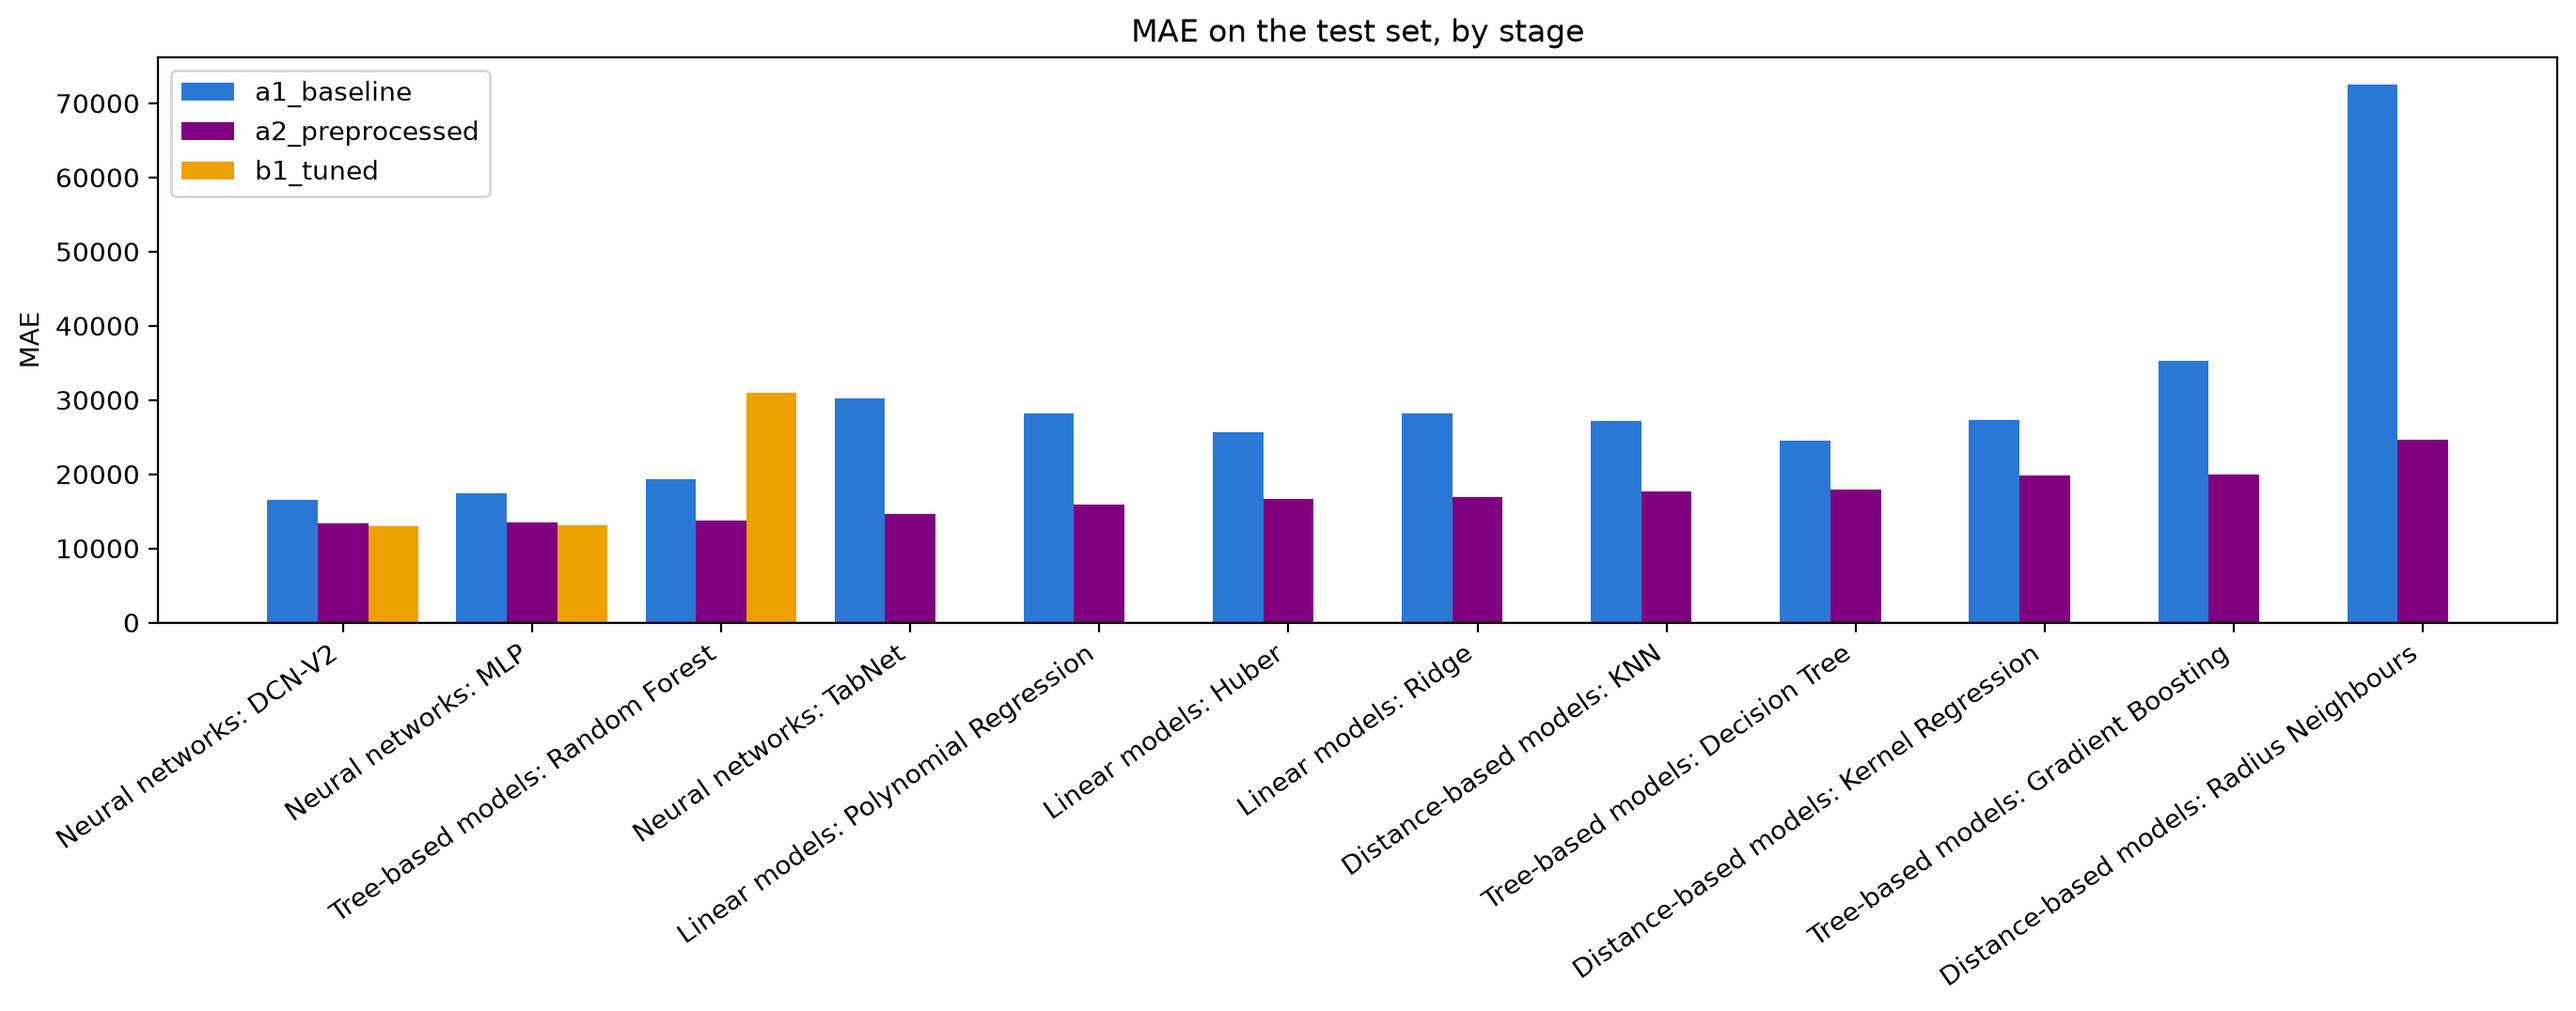
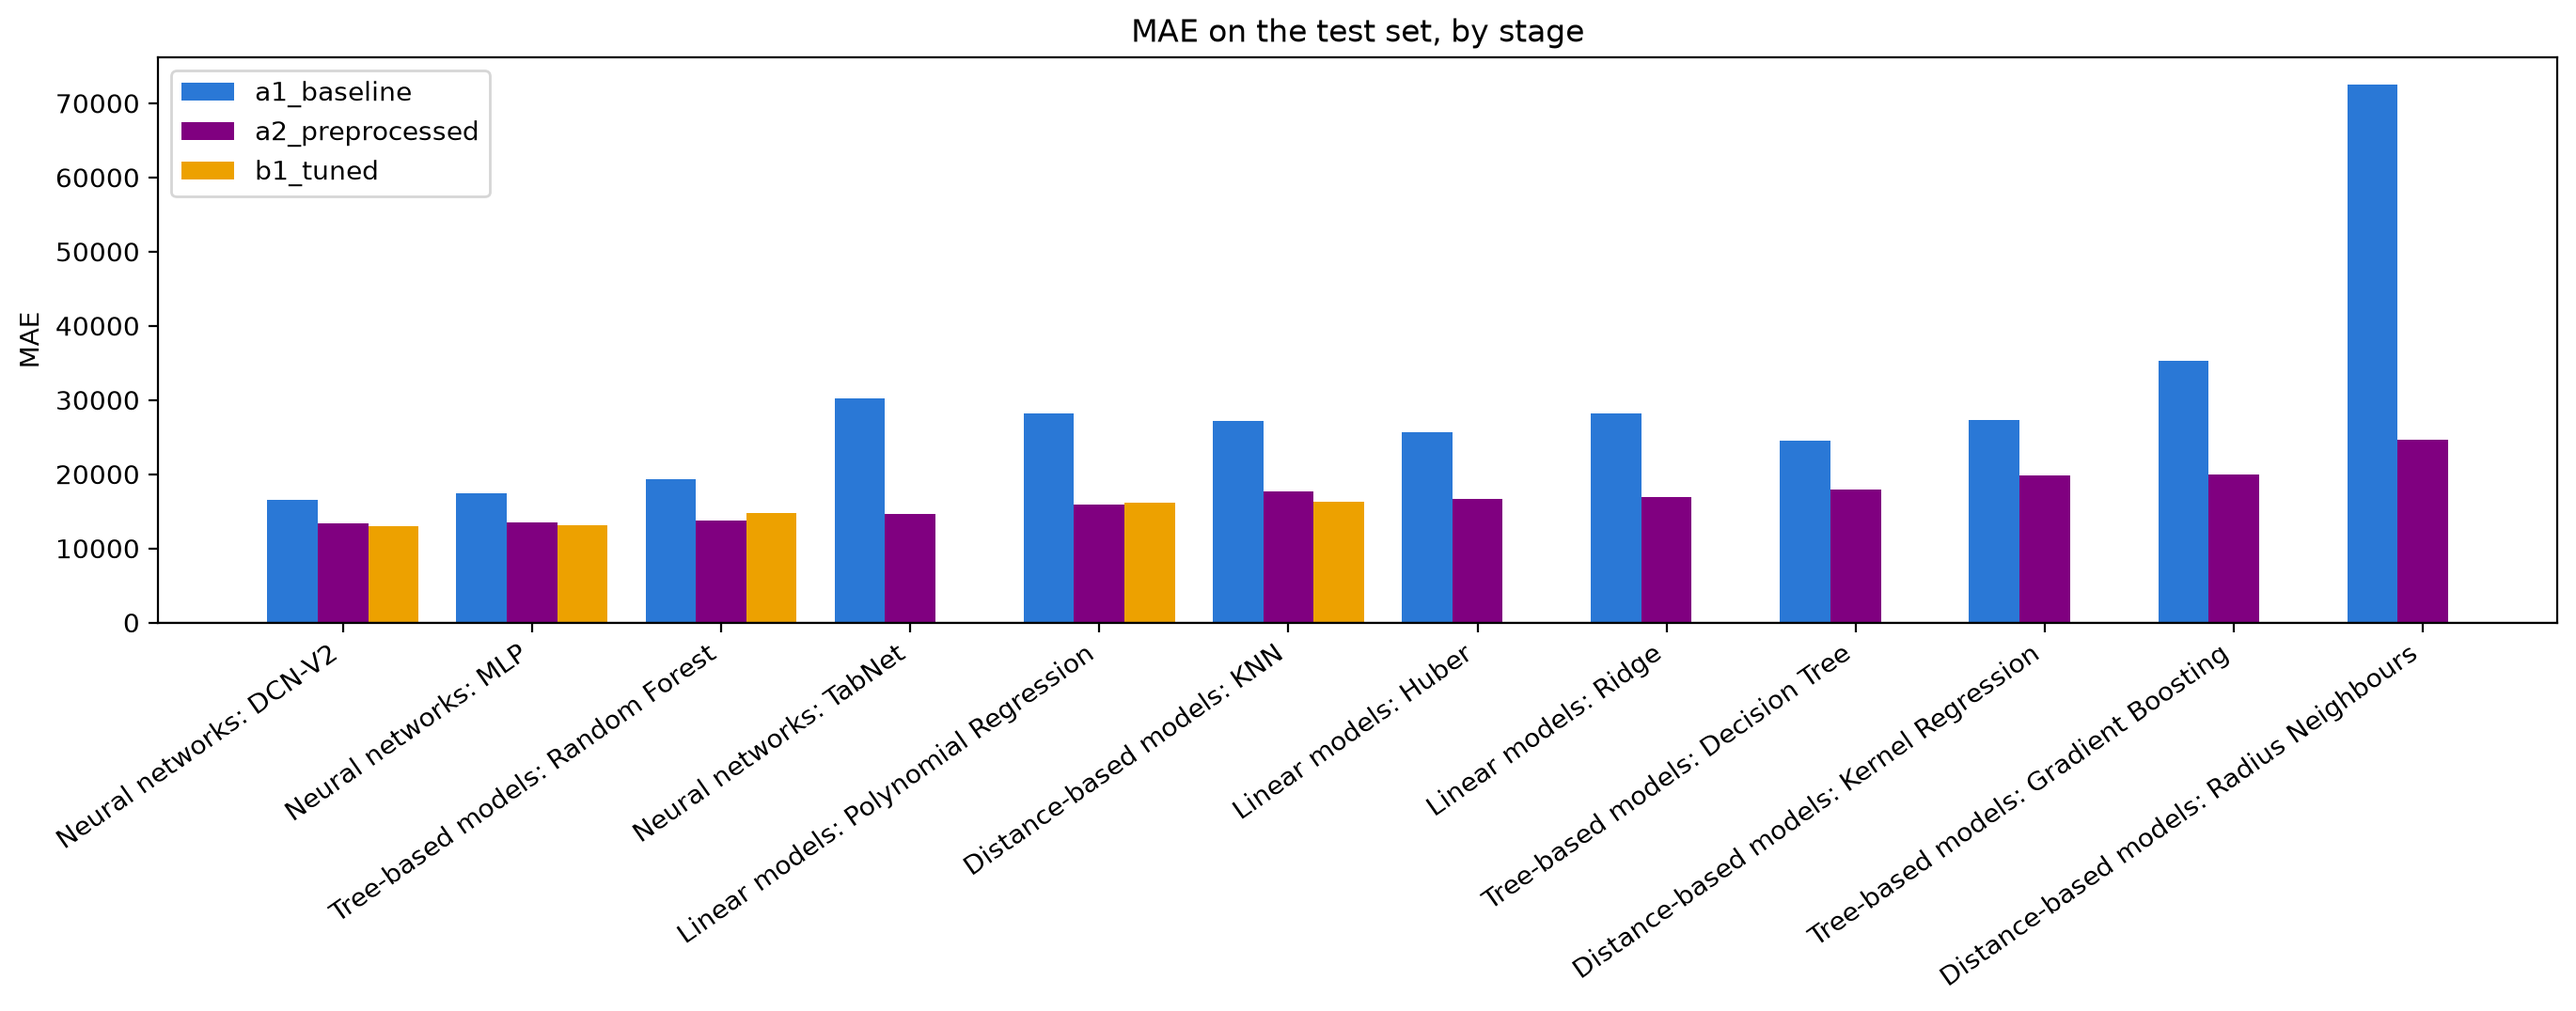
Ran comparison.py to include KNN model

diff --git a/src/analysis/b1_tuned_complexity_curve.py b/src/analysis/b1_tuned_complexity_curve.py
@@ -15,7 +15,7 @@ if str(ROOT_DIR) not in sys.path:
 from src.shared import complexity as cc
 from src.shared.core_utils import RANDOM_STATE
 from src.shared.stages import load_data
-from src.tuned_models import run_dcnv2, run_random_forest
+from src.tuned_models import run_dcnv2, run_knn, run_random_forest
 
 STAGE = "b1_tuned"
 
@@ -23,7 +23,6 @@ STAGE = "b1_tuned"
 # (or import them from their src/tuned_models/run_*.py), e.g. POLY_TUNED = {"degree": 2, "fit_intercept": True},
 # KNN_TUNED = {"n_neighbors": 10, "weights": "distance", "p": 1}. While a dict is empty that panel uses the default settings.
 POLY_TUNED = {}  # "degree" is swept; the other keys go to LinearRegression
-KNN_TUNED = {}   # "n_neighbors" is swept; the other keys go to KNeighborsRegressor
 
 
 def without(params, key):
@@ -38,6 +37,7 @@ def main():
     split = load_data(STAGE)
     n_numeric = cc.n_numeric_columns(STAGE)
     rf_params = run_random_forest.BEST_PARAMS[STAGE]
+    knn_params = run_knn.BEST_PARAMS[STAGE]
     dcn_params = run_dcnv2.BEST_PARAMS[STAGE]
 
     print(f"\nPolynomial Regression (degree; {label(POLY_TUNED)})")
@@ -45,8 +45,8 @@ def main():
     print("\nRandom Forest (max_depth; other settings from run_random_forest.BEST_PARAMS)")
     forest = cc.sweep(split, lambda d: RandomForestRegressor(max_depth=d, **without(rf_params, "max_depth"),
                                                              random_state=RANDOM_STATE, n_jobs=-1), cc.RF_DEPTHS)
-    print(f"\nKNN (number of neighbours; {label(KNN_TUNED)})")
-    knn = cc.sweep(split, lambda k: KNeighborsRegressor(n_neighbors=k, **without(KNN_TUNED, "n_neighbors"), n_jobs=-1), cc.KNN_K)
+    print(f"\nKNN (number of neighbours; {label(knn_params)})")
+    knn = cc.sweep(split, lambda k: KNeighborsRegressor(n_neighbors=k, **without(knn_params, "n_neighbors"), n_jobs=-1), cc.KNN_K)
 
     print("\nDCN-V2 (epochs; other settings from run_dcnv2.BEST_PARAMS)")
     torch.manual_seed(RANDOM_STATE)
@@ -61,8 +61,8 @@ def main():
          "Polynomial degree (simple -> complex)", True, POLY_TUNED.get("degree")),
         ("random_forest_max_depth", forest, "Tree family: Random Forest (tuned)",
          "Maximum tree depth (simple -> complex)", True, rf_params["max_depth"]),
-        ("knn_k", knn, f"Distance family: KNN ({label(KNN_TUNED)})",
-         "Number of neighbours k (simple -> complex)", True, KNN_TUNED.get("n_neighbors")),
+        ("knn_k", knn, f"Distance family: KNN ({label(knn_params)})",
+         "Number of neighbours k (simple -> complex)", True, knn_params.get("n_neighbors")),
         ("dcnv2_epochs", dcn, "Neural family: DCN-V2 (tuned)",
          "Training epochs (simple -> complex)", False, None),  # the tuned run stops early; its stop is near the green line
     ], f"Model complexity curves, tuned settings ({STAGE}): training vs validation error")

diff --git a/src/tuned_models/run_knn.py b/src/tuned_models/run_knn.py
@@ -80,7 +80,7 @@ def main():
     print(f"Fit time (s): {results[name]['fit_time']:.2f} | Predict time (s): {results[name]['predict_time']:.2f}")
     evaluate(name, split.y_test, results[name]["y_pred"], split.inverse_transform_price)
 
-    save_results(stage, "knn", "Distance-based", results, split, cv_results)
+    save_results(stage, "knn", "Distance-based models", results, split, cv_results)
 
 
 if __name__ == "__main__":
